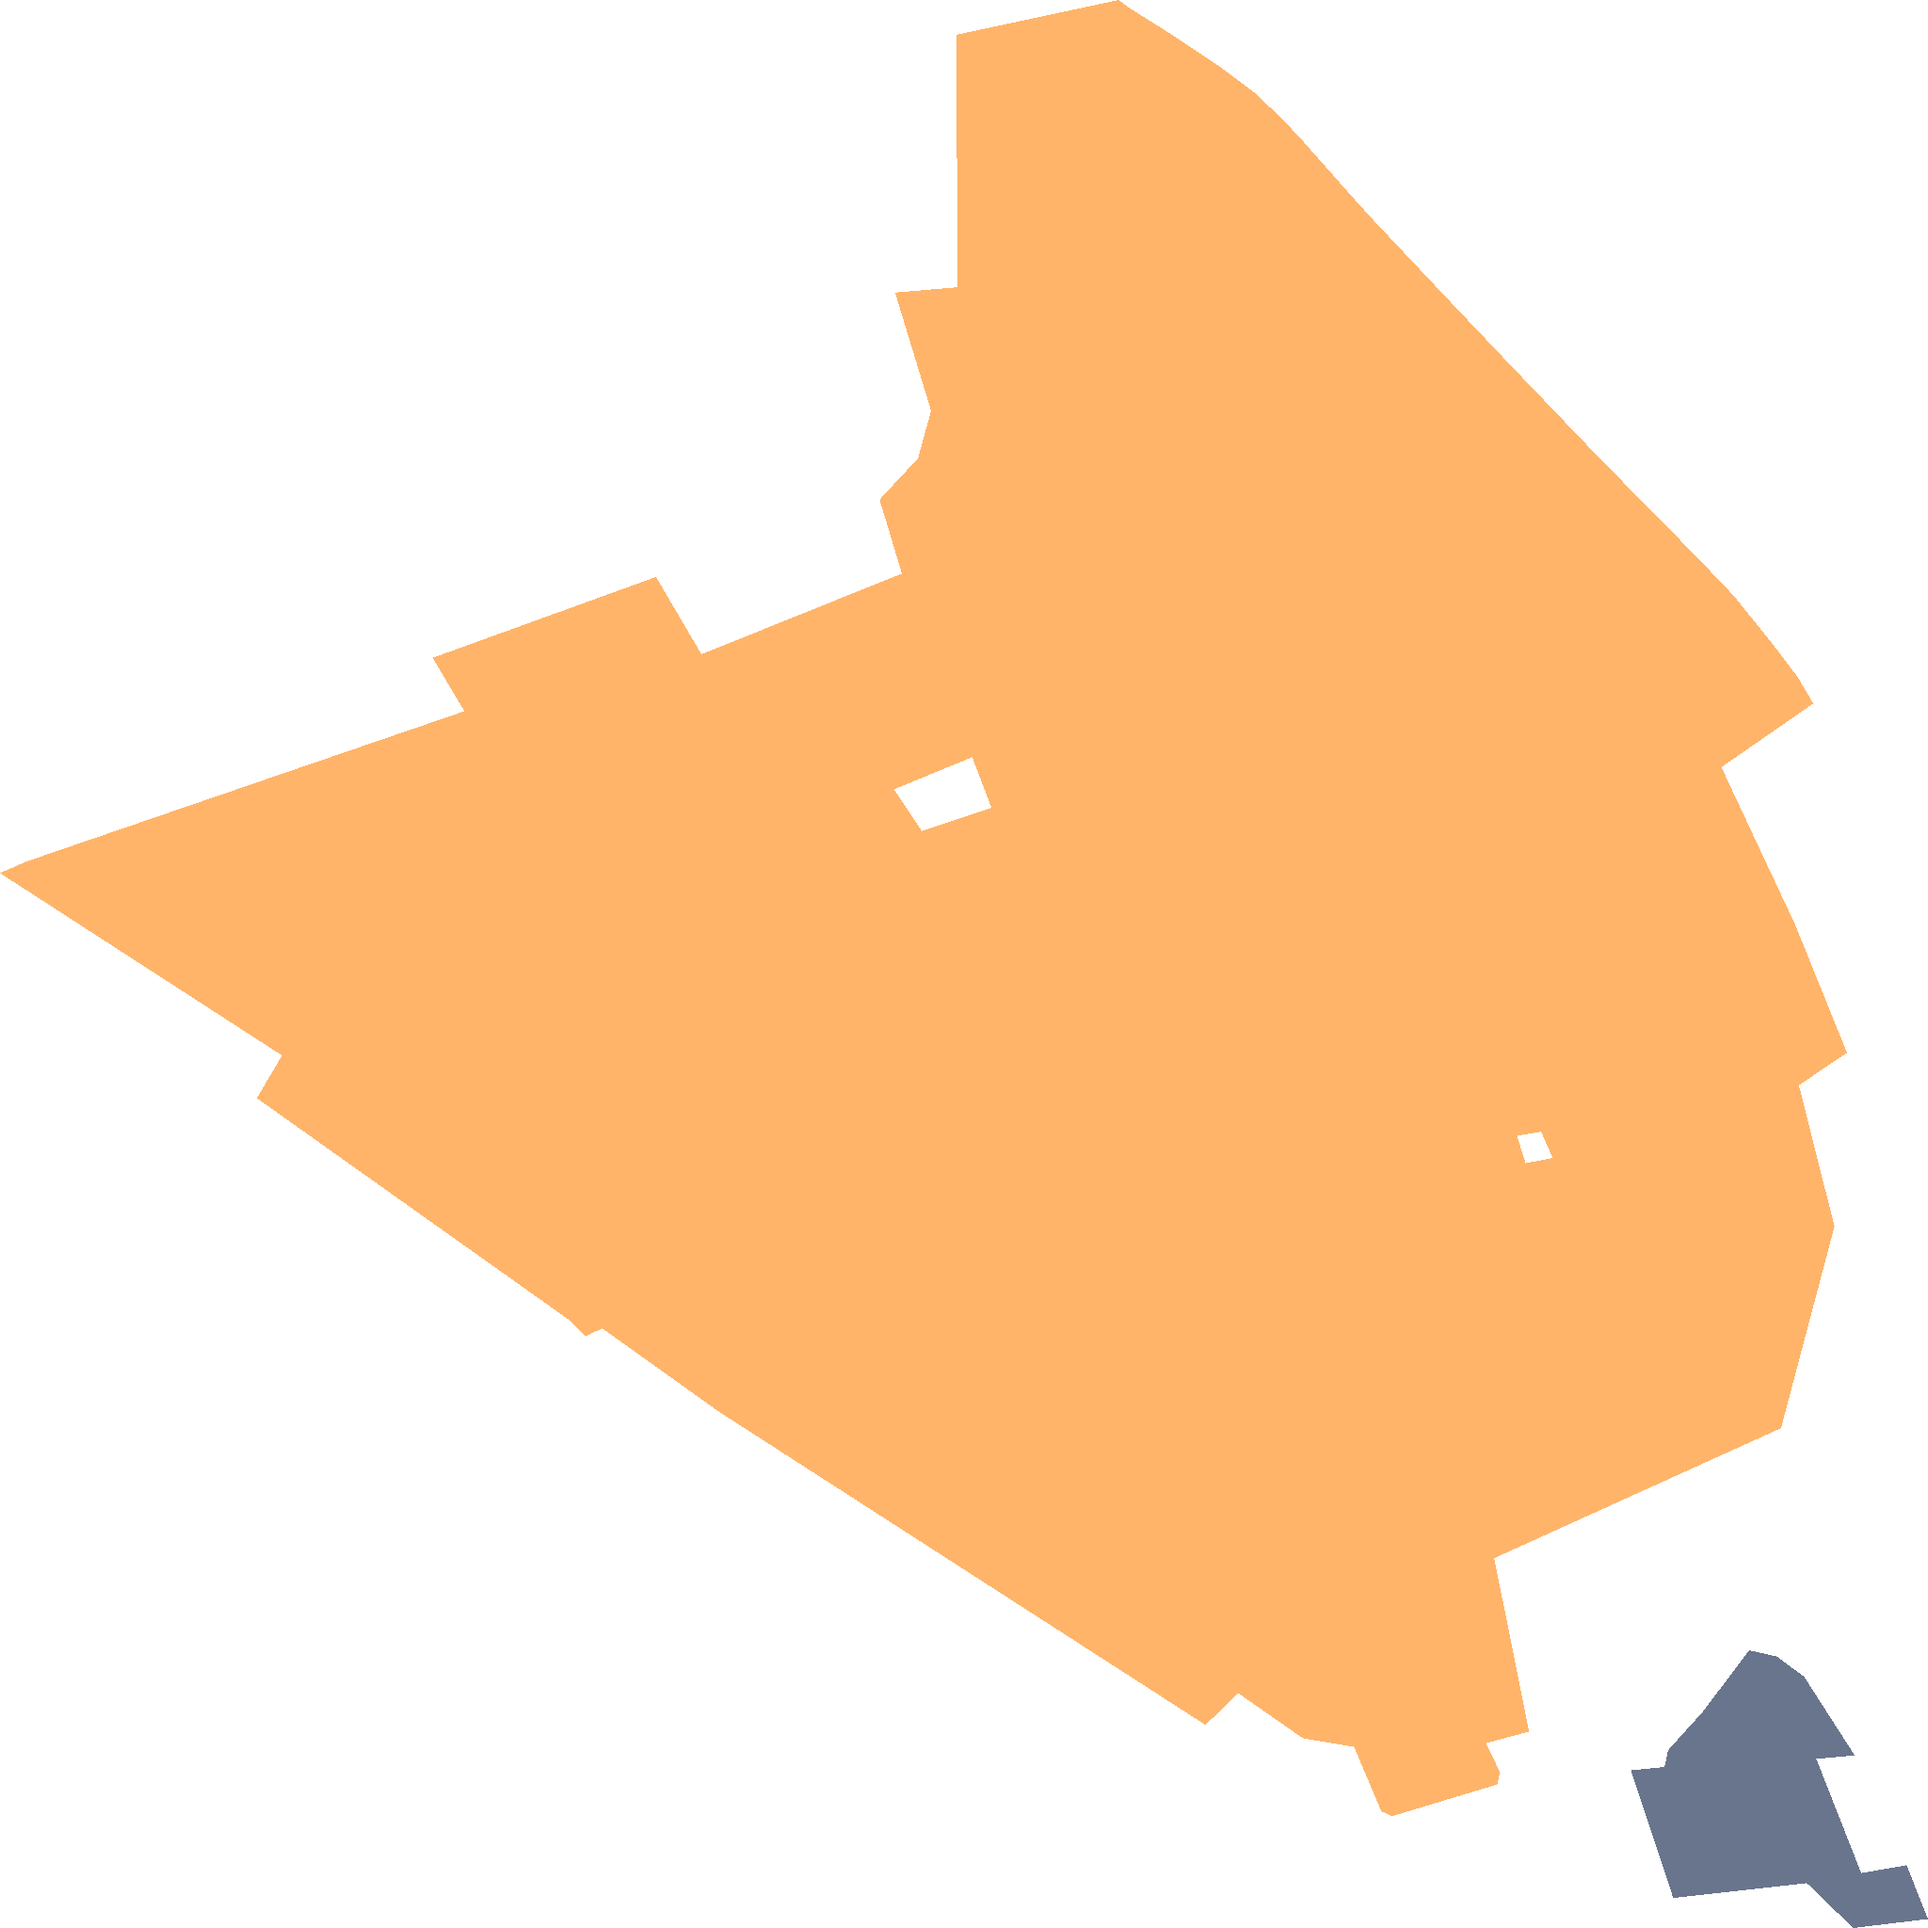
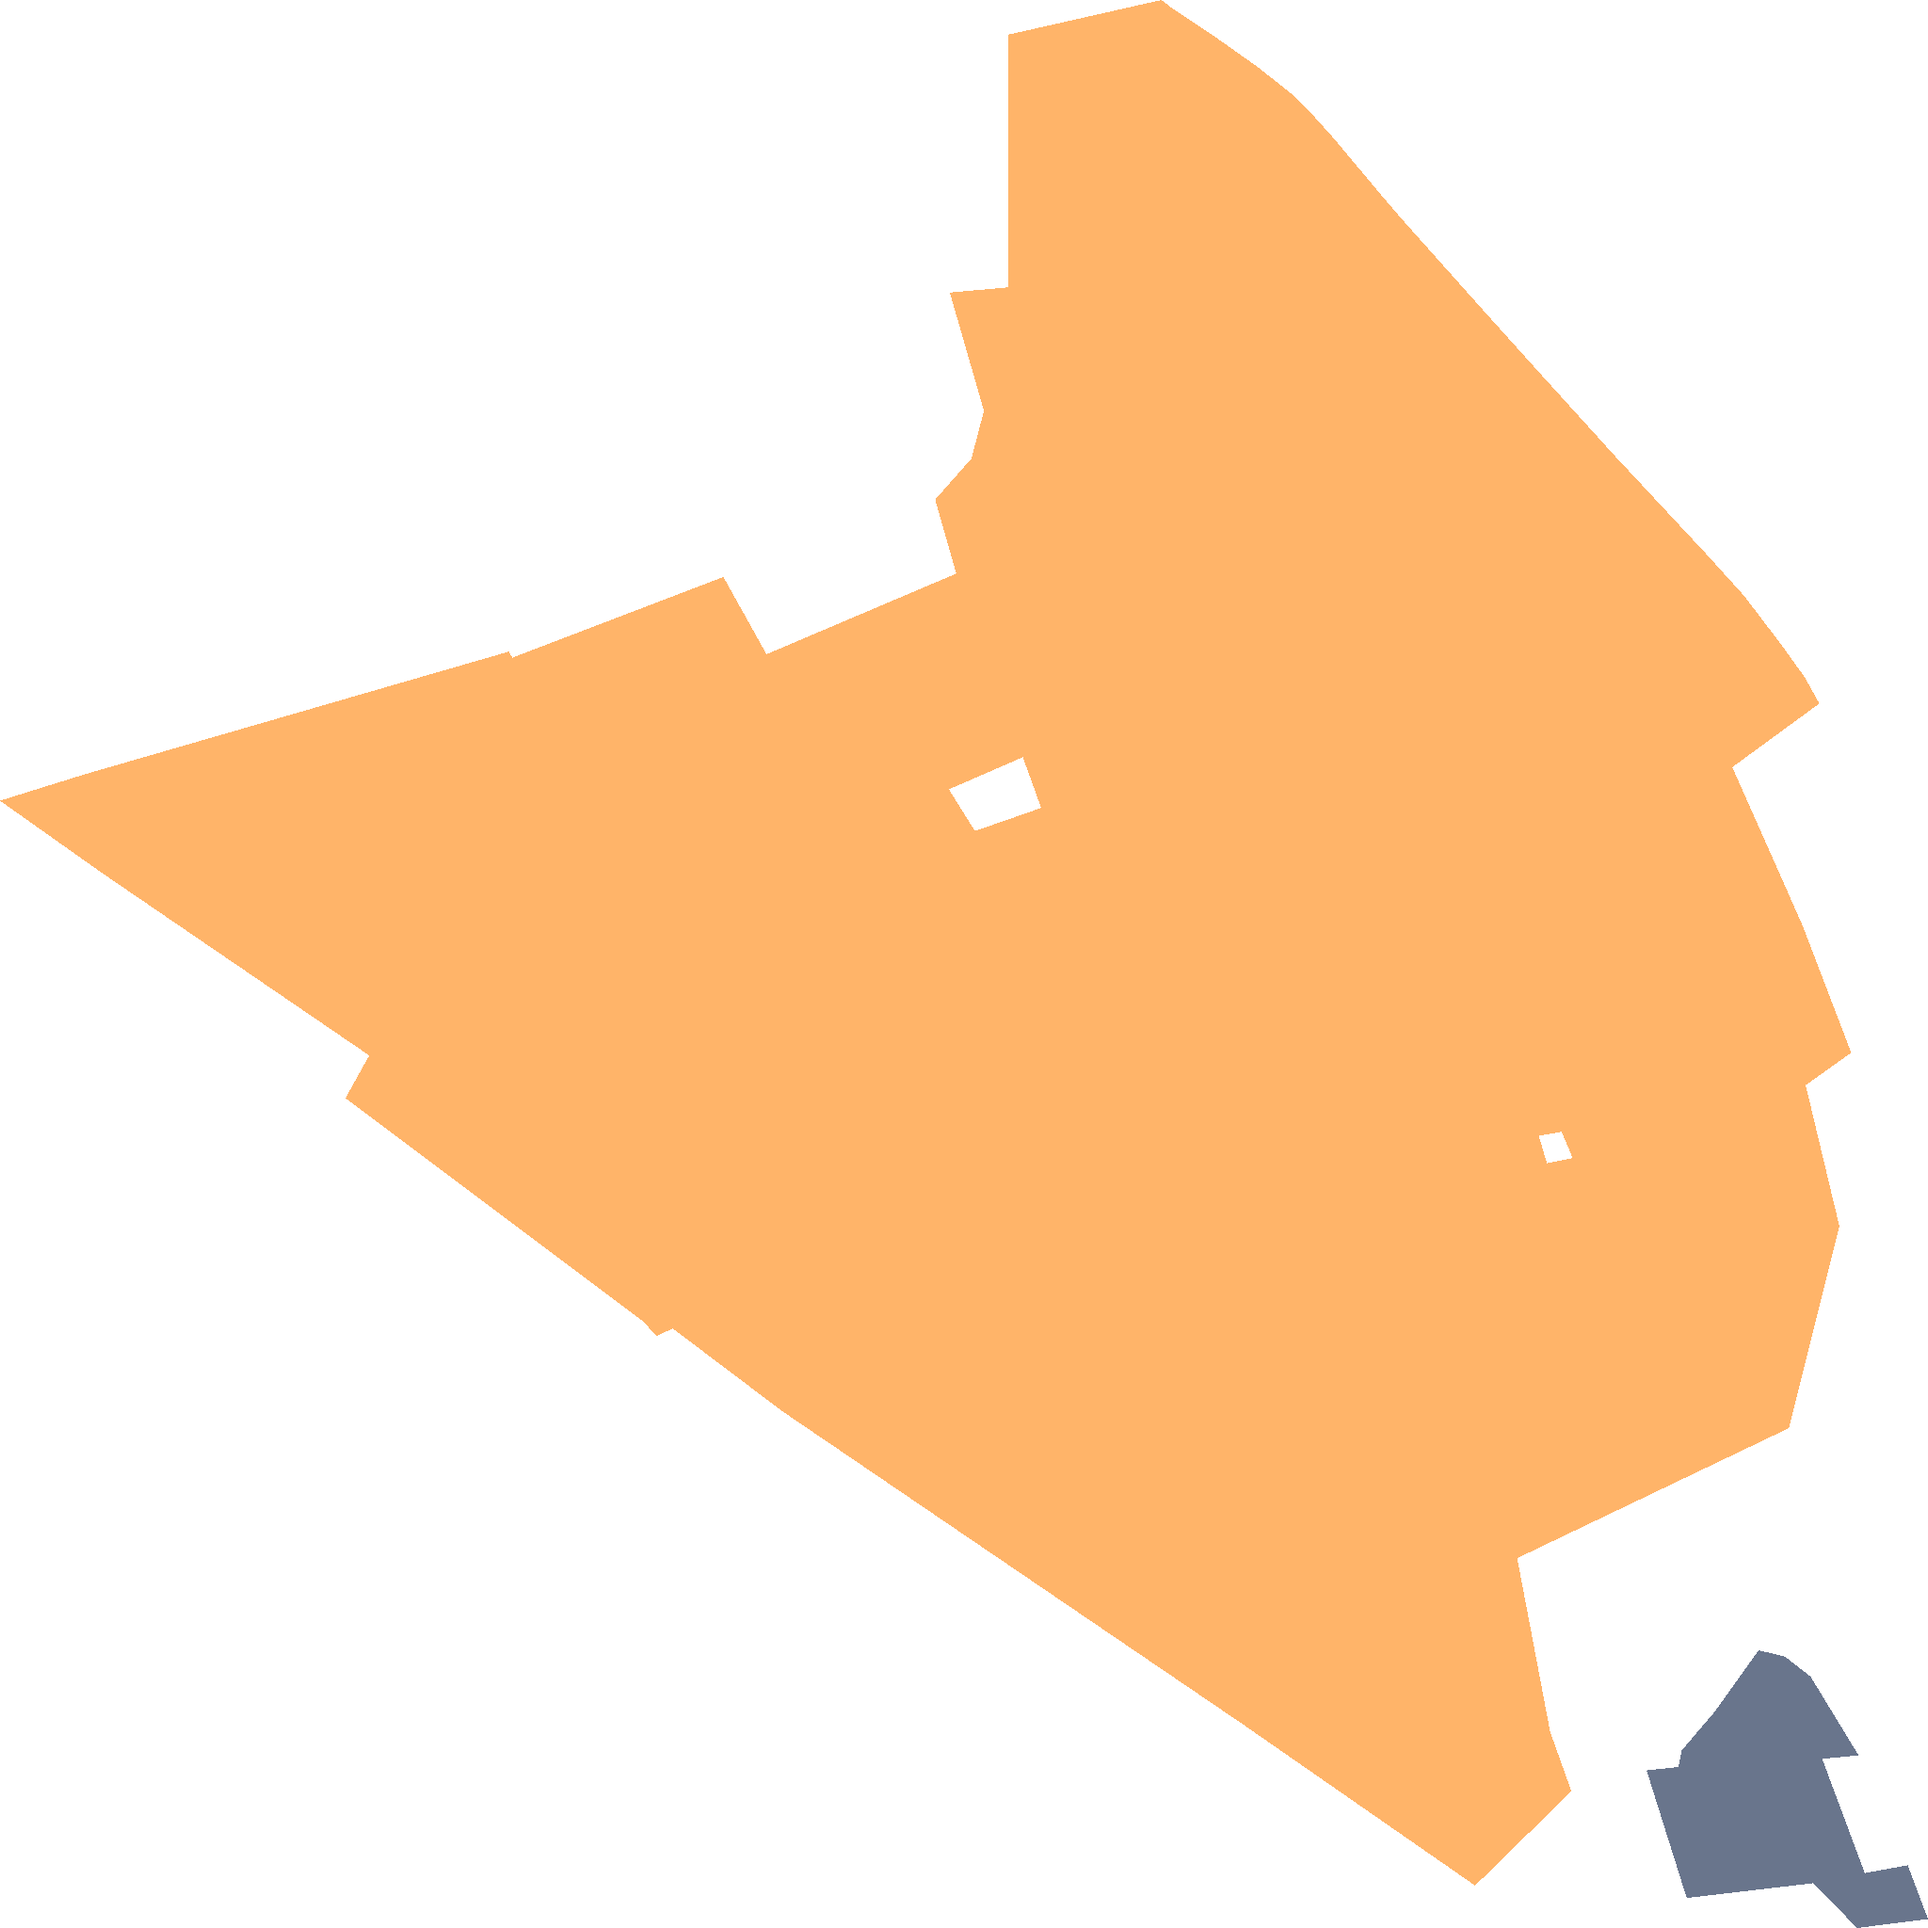
Karte sp_2121

diff --git a/sp_2121.html b/sp_2121.html
@@ -132,7 +132,7 @@
         <div><span style="display:inline-block;width:20px; height:10px; background:#00143C; margin-right:5px;"></span>Ausbauphase 2: Interessenbekundung möglich</div>
     </div>
     <script>
-    const bounds = [[49.939083406, 8.439733765], [49.955240586, 8.460062649]];
+    const bounds = [[49.939083406, 8.43859611], [49.955240586, 8.460062649]];
     const map = L.map('map', {zoomControl: false});
       map.fitBounds(bounds);
         const maptiler = L.tileLayer('https://api.maptiler.com/maps/basic/{z}/{x}/{y}.png?key=UrGMdlREnrfymuiwCa7d',
